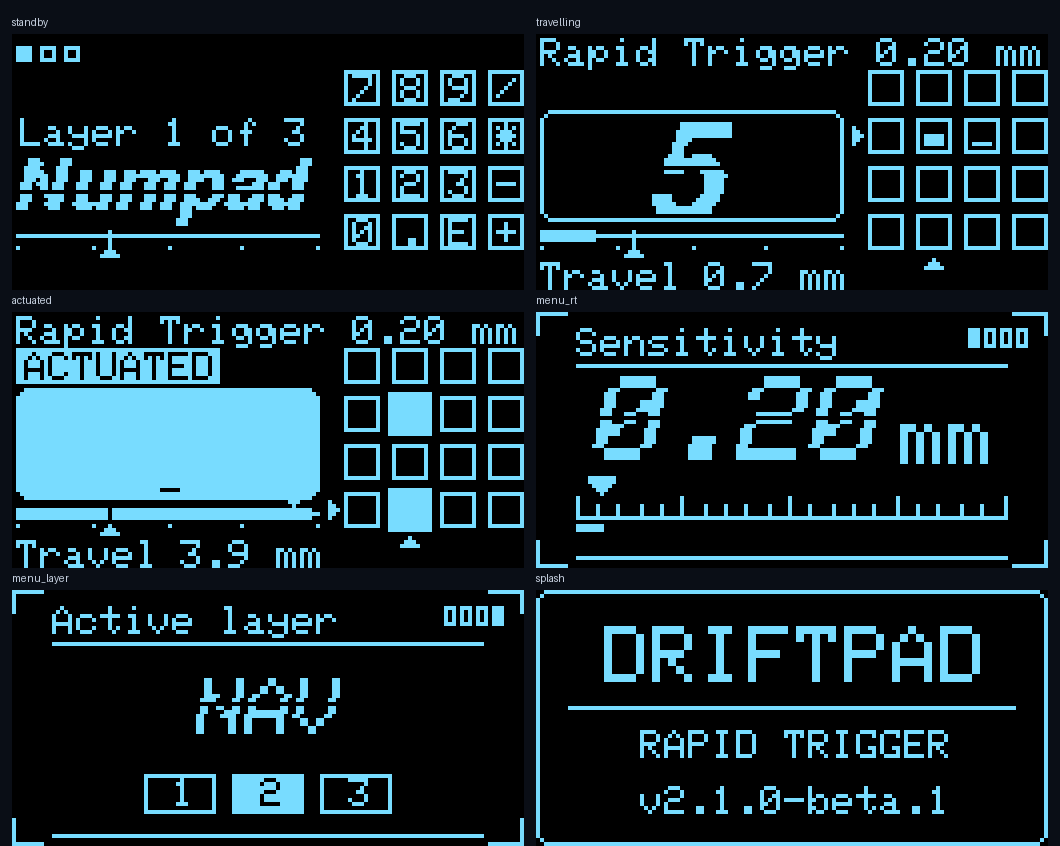
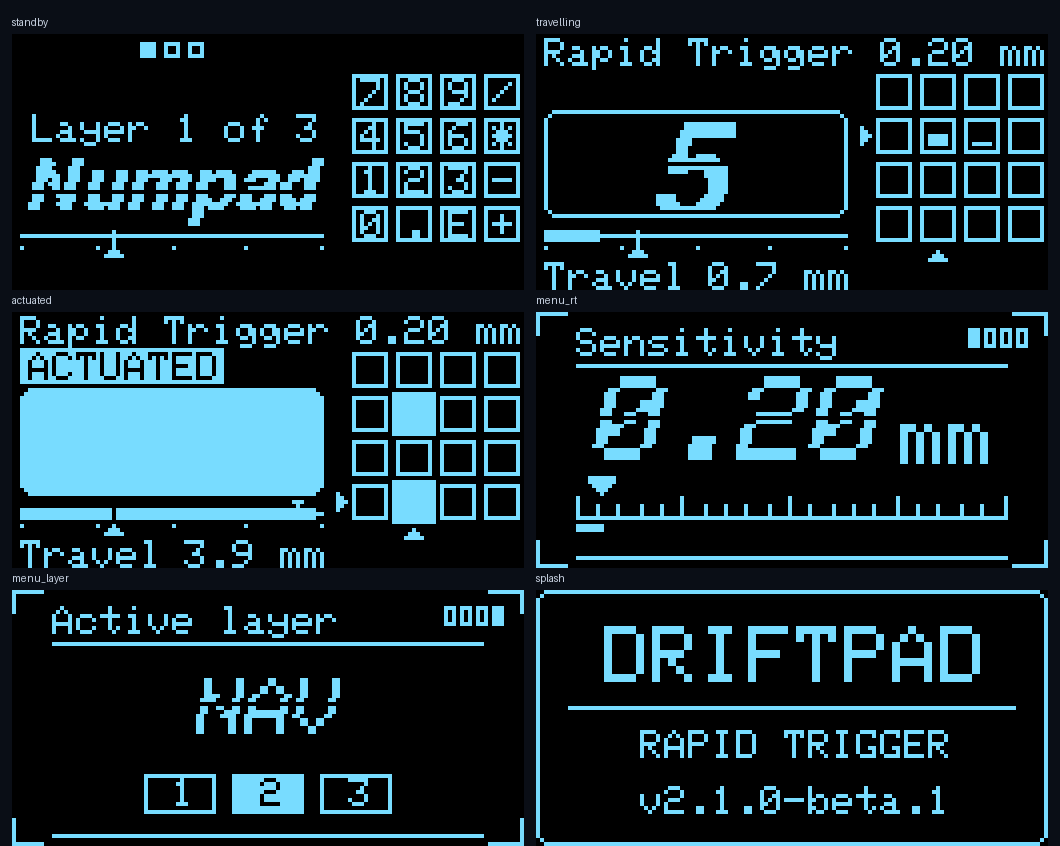
Lay the key screen out on a grid: centred panel, clear gutters, no touching elements
Standby measured badly on the real pad: the value's descenders touched the scale, the panel text was left-aligned against a right-hand map, the Unsaved chip sat directly on the map, and a 78 px caption ended 3 px from it. The left panel (card, scale, captions, values) is now centred on one axis at x 40, the keypad map is pulled in to x 85 with 2 px gaps and starts one row lower, values are placed so they clear the scale, the card is one row shorter so the release marker no longer touches it, and the press flourish stays inside the card. The intro wordmark and horizon are centred on the screen. Tests check centring, the gutter to the map and the clear row above the scale.

diff --git a/firmware/src/oled.cpp b/firmware/src/oled.cpp
@@ -679,18 +679,18 @@ void renderMenuOverlay() {
 // Main key screen. Left: the focused key (state label, key box, 0..4 mm travel scale and
 // readout) or standby. Right: the 4x4 keypad map. Positions are fixed across states.
 // ---------------------------------------------------------------------------------------
-constexpr int16_t KEY_BOX_X = 1;
+constexpr int16_t KEY_BOX_X = 2;
 constexpr int16_t KEY_BOX_Y = 19;
 constexpr int16_t KEY_BOX_W = 76;
-constexpr int16_t KEY_BOX_H = 28;
-constexpr int16_t SCALE_X = 1;
+constexpr int16_t KEY_BOX_H = 27;   // rows 19..45: a clear row above the release marker
+constexpr int16_t SCALE_X = 2;
 constexpr int16_t SCALE_W = 76;
 constexpr int16_t SCALE_Y = 49;     // fill rows 49..51, leaving two clear rows under the key box
 constexpr float SCALE_MAX_MM = 4.0f;  // full switch travel
-constexpr int16_t MAP_X = 83;
-constexpr int16_t MAP_Y = 9;
+constexpr int16_t MAP_X = 85;      // x 85..126: 45 px is too wide once the panel is centred, so the gaps are 2
+constexpr int16_t MAP_Y = 10;      // a clear row under the top strip (chips and captions are rows 0..8)
 constexpr int16_t MAP_CELL = 9;
-constexpr int16_t MAP_GAP = 3;
+constexpr int16_t MAP_GAP = 2;
 constexpr uint8_t FLASH_FRAMES = 3;        // a new actuation sends a ring out from its map cell
 constexpr uint8_t PUNCH_FRAMES = 3;        // ... and a flourish around the focus card
 constexpr uint8_t REVEAL_FRAMES = 3;       // the left panel wipes in when it changes between card and standby
@@ -732,12 +732,12 @@ void printRight(const char* text, int16_t rightX, int16_t y) {
 void drawCaption(const char* text) {
     s_display.setTextSize(1);
     s_display.setTextColor(OLED_COLOR_WHITE);
-    s_display.setCursor(1, 1);
+    s_display.setCursor(KEY_BOX_X, 1);
     s_display.print(text);
 }
 
 // The left panel's usable width for big text: x = 2 .. 76, clear of the keypad map
-constexpr int16_t PANEL_TEXT_X = 2;
+constexpr int16_t PANEL_CENTER_X = 40;   // the left panel is x 2..77; its centre is 39.5
 constexpr int16_t PANEL_TEXT_W = 74;
 
 int16_t fontWidth(const char* text, const GFXfont* font, int16_t* x1out = nullptr) {
@@ -757,23 +757,25 @@ const GFXfont* fitFont(const char* text, int16_t maxW) {
     return &FreeSansBold9pt7b;
 }
 
-// A big value (and an optional smaller unit beside it) in the title screen's lettering, left-aligned
-// in the left panel with its top at `top`. Everything is sized to fit the panel, never clipped.
+// A big value (and an optional smaller unit beside it) in the title screen's lettering, centred in
+// the left panel with its top at `top`. Everything is sized to fit the panel, never clipped, and the
+// value and the unit share one baseline. Only the 12 and 9 pt sizes are used, so a line stays 17 rows
+// tall including descenders and clears the scale beneath it.
 void drawPanelValue(const char* value, const char* unit, int16_t top) {
-    const GFXfont* valueFont;
+    const GFXfont* valueFont = &FreeSansBold12pt7b;
     const GFXfont* unitFont = &FreeSansBold9pt7b;
     if (unit) {
-        valueFont = &FreeSansBold12pt7b;
-        if (fontWidth(value, valueFont) + 4 + fontWidth(unit, unitFont) > PANEL_TEXT_W) valueFont = &FreeSansBold9pt7b;
-    } else {
-        valueFont = fitFont(value, PANEL_TEXT_W);
+        if (fontWidth(value, valueFont) + 5 + fontWidth(unit, unitFont) > PANEL_TEXT_W) valueFont = &FreeSansBold9pt7b;
+    } else if (fontWidth(value, valueFont) > PANEL_TEXT_W) {
+        valueFont = &FreeSansBold9pt7b;
     }
     int16_t x1, y1;
     uint16_t w, h;
     s_display.setFont(valueFont);
     s_display.getTextBounds(value, 0, 0, &x1, &y1, &w, &h);
     s_display.setFont(nullptr);
-    const int16_t left = PANEL_TEXT_X - x1;
+    const int16_t unitW = unit ? 5 + fontWidth(unit, unitFont) : 0;
+    const int16_t left = PANEL_CENTER_X - ((int16_t)w + unitW) / 2 - x1;
     const int16_t baseline = top - y1;
     drawStyledText(KEY_BOX_X, top - 2, KEY_BOX_W, (uint16_t)h + 6, OLED_COLOR_WHITE, 0.22f, [&] {
         s_display.setTextColor(OLED_COLOR_WHITE);
@@ -782,7 +784,7 @@ void drawPanelValue(const char* value, const char* unit, int16_t top) {
         s_display.print(value);
         if (unit) {
             s_display.setFont(unitFont);
-            s_display.setCursor(PANEL_TEXT_X + (int16_t)w + 5, baseline);
+            s_display.setCursor(left + x1 + (int16_t)w + 5, baseline);
             s_display.print(unit);
         }
         s_display.setFont(nullptr);
@@ -828,14 +830,12 @@ void drawKeyBox(const char* label, bool actuated, uint8_t punch) {
     if (actuated) {
         s_display.fillRoundRect(KEY_BOX_X, KEY_BOX_Y, KEY_BOX_W, KEY_BOX_H, 3, OLED_COLOR_WHITE);
         if (punch > 0) {
-            // The press flourish: a dark bevel inside the card, and a frame just outside it that
-            // flashes solid, then breaks up into dots as it fades
-            s_display.drawRoundRect(KEY_BOX_X + 2, KEY_BOX_Y + 2, KEY_BOX_W - 4, KEY_BOX_H - 4, 2, OLED_COLOR_BLACK);
-            if (punch >= PUNCH_FRAMES) {
-                s_display.drawRoundRect(KEY_BOX_X - 1, KEY_BOX_Y - 1, KEY_BOX_W + 2, KEY_BOX_H + 2, 4, OLED_COLOR_WHITE);
-            } else {
-                drawDottedRect(KEY_BOX_X - 1, KEY_BOX_Y - 1, KEY_BOX_W + 2, KEY_BOX_H + 2, punch == 2 ? 2 : 3);
-            }
+            // The press flourish: a dark bevel just inside the card edge that steps inward over the
+            // punch frames. It stays within 3 px of the edge, clear of the legend, and nothing is
+            // drawn outside the card, so it can never touch the chip above or the scale below.
+            const int16_t inset = 1 + (PUNCH_FRAMES - punch);
+            s_display.drawRoundRect(KEY_BOX_X + inset, KEY_BOX_Y + inset, KEY_BOX_W - 2 * inset, KEY_BOX_H - 2 * inset,
+                                    2, OLED_COLOR_BLACK);
         }
     } else {
         s_display.drawRoundRect(KEY_BOX_X, KEY_BOX_Y, KEY_BOX_W, KEY_BOX_H, 3, OLED_COLOR_WHITE);
@@ -906,7 +906,7 @@ void drawKeypadMap(const bool actuated[NUM_KEYS], int8_t focus, bool legends) {
                 if (s_keyFlash[i] == FLASH_FRAMES) {
                     s_display.drawRect(x - 1, y - 1, MAP_CELL + 2, MAP_CELL + 2, OLED_COLOR_WHITE);
                 } else {
-                    drawDottedRect(x - 2, y - 2, MAP_CELL + 4, MAP_CELL + 4, s_keyFlash[i] == 2 ? 2 : 3);
+                    drawDottedRect(x - 1, y - 1, MAP_CELL + 2, MAP_CELL + 2, s_keyFlash[i] == 2 ? 2 : 3);
                 }
                 s_keyFlash[i]--;
             }
@@ -966,10 +966,10 @@ void drawStatusLabel(const char* normal, bool chip) {
     if (!text) return;
     bool blocked = text != normal;
     if (blocked || chip) {
-        s_display.fillRect(1, 9, textWidth(text) + 4, 9, OLED_COLOR_WHITE);
+        s_display.fillRect(KEY_BOX_X, 9, textWidth(text) + 4, 9, OLED_COLOR_WHITE);
         s_display.setTextColor(OLED_COLOR_BLACK, OLED_COLOR_WHITE);
     }
-    s_display.setCursor(3, 10);
+    s_display.setCursor(KEY_BOX_X + 2, 10);
     s_display.print(text);
     s_display.setTextColor(OLED_COLOR_WHITE);
 }
@@ -1130,7 +1130,7 @@ void renderKeysFrame(uint32_t now) {
         printRight((String(displayTravelMm((uint8_t)focus, k.travelMm), 1) + " mm").c_str(),
                    KEY_BOX_X + KEY_BOX_W - 1, 57);
         s_display.setTextSize(1);
-        s_display.setCursor(1, 57);
+        s_display.setCursor(KEY_BOX_X, 57);
         s_display.print("Travel");
         // The Rapid Trigger setting in words, unless the saved-state chip needs the top row
         if (!settingsChipText(now)) {
@@ -1167,15 +1167,13 @@ void renderKeysFrame(uint32_t now) {
                 }
                 break;
         }
-        s_display.setTextSize(1);
-        s_display.setTextColor(OLED_COLOR_WHITE);
-        s_display.setCursor(PANEL_TEXT_X, 21);
-        s_display.print(cap);
+        printCentered(cap, PANEL_CENTER_X, 20);
         drawPanelValue(value, unit, 31);
-        // Three small pips show which page this is
+        // Three small pips, centred at the top, show which page this is
         for (uint8_t i = 0; i < 3; ++i) {
-            if (i == page) s_display.fillRect(1 + i * 6, 3, 4, 4, OLED_COLOR_WHITE);
-            else s_display.drawRect(1 + i * 6, 3, 4, 4, OLED_COLOR_WHITE);
+            const int16_t px = PANEL_CENTER_X - 8 + i * 6;
+            if (i == page) s_display.fillRect(px, 2, 4, 4, OLED_COLOR_WHITE);
+            else s_display.drawRect(px, 2, 4, 4, OLED_COLOR_WHITE);
         }
         drawTravelScale(0.0f);
     }
@@ -2003,8 +2001,8 @@ float introGlyphHalf(char c, int16_t ox, int16_t oy, int16_t rowMin, int16_t row
 #undef IP
 
 constexpr int16_t WORD_TOP = 13;          // top row of the capitals (18 rows)
-constexpr int16_t WORD_LEFT = 8;
-constexpr int16_t WORD_WIDTH = 111;       // the drawn extent, used for the horizon beneath
+constexpr int16_t WORD_LEFT = 10;         // the wordmark is 108 px wide with its slant, so 10 centres it
+constexpr int16_t WORD_WIDTH = 108;       // the drawn extent, used for the horizon beneath
 constexpr int16_t WORD_GAP = 4;           // px between letters
 constexpr int16_t SLIT_ROW = 9;           // the empty row that cuts every letter, from WORD_TOP
 

diff --git a/tests/test_oled_frames.py b/tests/test_oled_frames.py
@@ -38,9 +38,9 @@ class OledFrames(unittest.TestCase):
 
     def test_standby_has_a_plain_caption_page_pips_and_a_big_value(self):
         fb = oh.frame(self.lib, "standby")
-        caption = sum(oh.pixel(fb, x, y) for x in range(2, 80) for y in range(20, 28))
-        value = sum(oh.pixel(fb, x, y) for x in range(2, 77) for y in range(31, 49))
-        pips = sum(oh.pixel(fb, x, y) for x in range(1, 20) for y in range(3, 7))
+        caption = sum(oh.pixel(fb, x, y) for x in range(2, 80) for y in range(19, 27))
+        value = sum(oh.pixel(fb, x, y) for x in range(2, 78) for y in range(30, 48))
+        pips = sum(oh.pixel(fb, x, y) for x in range(30, 51) for y in range(1, 7))
         self.assertGreater(caption, 60, "no caption above the value")
         self.assertGreater(value, 200, "no big value on the standby page")
         self.assertGreater(pips, 20, "no page pips")
@@ -53,7 +53,7 @@ class OledFrames(unittest.TestCase):
         fb = oh.frame(self.lib, "actuated_ent")
         # the focus card is filled ("ACTUATED"), and ENT (key 14: row 3, column 2) is solid in the map
         self.assertTrue(all(oh.pixel(fb, x, 20) for x in range(4, 74)), "key box is not filled")
-        x0, y0 = 83 + 2 * 12, 9 + 3 * 12
+        x0, y0 = 85 + 2 * 11, 10 + 3 * 11     # the map: x 85, y 10, a cell every 11 px
         self.assertTrue(all(oh.pixel(fb, x, y0 + 4) for x in range(x0, x0 + 9)), "map cell is not solid")
 
     def test_released_key_fades_out_of_the_map(self):
@@ -78,10 +78,10 @@ class OledFrames(unittest.TestCase):
 
     def test_rapid_trigger_marks_where_the_key_will_release(self):
         # held at 3.0 mm then back at 2.4 mm with RT 0.20: the key releases at 2.8 mm. The marker
-        # is a pointer just above the scale (x = 1 + 2.8/4*75 = 54, rows 47..48)
+        # is a pointer just above the scale (x = 2 + 2.8/4*75 = 55, rows 47..48)
         with_rt = oh.frame(self.lib, "rt_backing_off")
         without = oh.frame(self.lib, "no_rt_backing_off")
-        marker = lambda fb: [oh.pixel(fb, 54, y) for y in (47, 48)]
+        marker = lambda fb: [oh.pixel(fb, 55, y) for y in (47, 48)]
         self.assertEqual(marker(with_rt), [1, 1], "no release marker with Rapid Trigger on")
         self.assertEqual(marker(without), [0, 0], "release marker shown with Rapid Trigger off")
 
@@ -91,15 +91,15 @@ class OledFrames(unittest.TestCase):
             fb = oh.frame(self.lib, scene)
             return [sum(oh.pixel(fb, x, y) for x in range(x0, x1)) for y in range(y0, y1)]
 
-        for scene, box in (("menu_rt", (10, 118, 18, 38)), ("travelling", (6, 74, 24, 42)), ("standby", (2, 77, 32, 46))):
+        for scene, box in (("menu_rt", (10, 118, 18, 38)), ("travelling", (6, 74, 24, 42)), ("standby", (2, 78, 34, 44))):
             ink = rows(scene, *box)
             body = sorted(ink)[len(ink) // 2]
             self.assertLess(min(ink[2:-2]), max(1, body // 3), f"{scene}: no slit through the lettering")
 
     def test_the_widest_key_legend_stays_inside_its_box(self):
-        # "WWWW" is as wide as four printable characters get. The box frame is at x = 1 and 76; the
-        # slanted lettering must leave at least two clear columns before it on each side
-        margin = [(x, y) for y in range(22, 44) for x in (2, 3, 74, 75)]
+        # "WWWW" is as wide as four printable characters get. The box frame is at x = 2 and 77; the
+        # slanted lettering must leave at least two clear columns inside it on each side
+        margin = [(x, y) for y in range(22, 43) for x in (3, 4, 75, 76)]
         plain = oh.frame(self.lib, "wide_label")
         self.assertEqual(sum(oh.pixel(plain, x, y) for x, y in margin), 0, "the legend runs into the box frame")
         solid = oh.frame(self.lib, "wide_label_actuated")   # a filled box: the legend is dark on white
@@ -128,9 +128,9 @@ class OledFrames(unittest.TestCase):
             self.lib.oled_press_step(travel, pressed, count, buf)
             return bytes(buf.raw)
 
-        card_top = lambda fb: sum(oh.pixel(fb, x, 19) for x in range(4, 74))     # the focus card's frame
-        card_mid = lambda fb: sum(oh.pixel(fb, x, 20) for x in range(4, 74))     # solid only when actuated
-        cell = lambda fb: sum(oh.pixel(fb, x, y) for x in range(95, 104) for y in range(21, 30))   # key 5 in the map
+        card_top = lambda fb: sum(oh.pixel(fb, x, 19) for x in range(6, 74))     # the focus card's frame
+        card_mid = lambda fb: sum(oh.pixel(fb, x, 21) for x in range(6, 74))     # solid only when actuated (the first punch frame's bevel is on row 20)
+        cell = lambda fb: sum(oh.pixel(fb, x, y) for x in range(96, 105) for y in range(21, 30))   # key 5 in the map
 
         for _ in range(8):   # long enough for any focus left by an earlier test to settle (100 ms)
             rest = step(0.0, 0, 0)
@@ -147,7 +147,7 @@ class OledFrames(unittest.TestCase):
         deeper = step(1.15, 0, 0)
         self.assertGreater(cell(deeper), cell(moving), "the map cell does not fill further with travel")
         fired = step(1.6, 1, 1)
-        self.assertGreater(card_mid(fired), 65, "the card does not flip solid on actuation")
+        self.assertGreater(card_mid(fired), 60, "the card does not flip solid on actuation")
         self.assertGreaterEqual(cell(fired), 81, "the map cell is not solid on actuation")
         released = step(1.0, 0, 1)
         self.assertLess(card_mid(released), 5, "the card stays solid after release")
@@ -179,8 +179,20 @@ class OledFrames(unittest.TestCase):
         for i, fb in enumerate(pages):
             body = sum(oh.pixel(fb, x, y) for x in range(2, 77) for y in range(20, 49))
             self.assertGreater(body, 150, f"page {i + 1} is nearly empty")
-            spill = sum(oh.pixel(fb, x, y) for x in range(80, 83) for y in range(19, 49))   # the map starts at x = 83
+            spill = sum(oh.pixel(fb, x, y) for x in range(81, 85) for y in range(19, 49))   # the map starts at x = 85
             self.assertEqual(spill, 0, f"page {i + 1}: text runs into the keypad map")
+        # layout: centred in the panel, a clear gutter to the map, and a clear row above the scale
+        def centre(fb, y0, y1):
+            xs = [x for y in range(y0, y1) for x in range(0, 82) if oh.pixel(fb, x, y)]
+            return (min(xs) + max(xs)) / 2
+
+        for i, fb in enumerate(pages):
+            self.assertLessEqual(abs(centre(fb, 19, 27) - 40), 4, f"page {i + 1}: the caption is not centred in the panel")
+            self.assertLessEqual(abs(centre(fb, 29, 47) - 40), 3, f"page {i + 1}: the value is not centred in the panel")
+            gutter = sum(oh.pixel(fb, x, y) for x in range(80, 85) for y in range(9, 58))
+            self.assertEqual(gutter, 0, f"page {i + 1}: something crosses the gutter to the keypad map")
+            above_scale = sum(oh.pixel(fb, x, 48) for x in range(2, 78))
+            self.assertEqual(above_scale, 0, f"page {i + 1}: the value touches the scale")
         back_to_first = settled_page(3000)
         self.assertEqual(back_to_first, pages[0], "the pages do not cycle back to the layer")
 

diff --git a/CHANGELOG.md b/CHANGELOG.md
@@ -101,6 +101,10 @@ work with this firmware and says so.
   a pressed key shows `Rapid Trigger 0.20 mm` and `Travel 1.9 mm` in words; tuning cards use plain titles
   (`Sensitivity`, `Actuation point`, `Rapid Trigger`, `Active layer`), a readable `mm`, and numbered layer
   chips (1 2 3); the intro says `Needs setup`, `Keys off` or `Ready to type`.
+  The left panel is laid out on a grid: card, scale, captions and values are centred on the same axis, the
+  keypad map is pulled in to leave a wide gutter, every element has a clear row or column around it (the
+  value no longer touches the scale, the chips no longer touch the map), and the press flourish stays
+  inside the card. The intro wordmark and horizon are centred.
 - OLED key screen: a top-right chip says `Unsaved` while settings changes are only in RAM and `Saved`
   for about two seconds after the pad writes them to flash, so the pad's own screen tells the truth about
   persistence. A layer change made anywhere but the tuning card (the configurator, a script) flashes a
